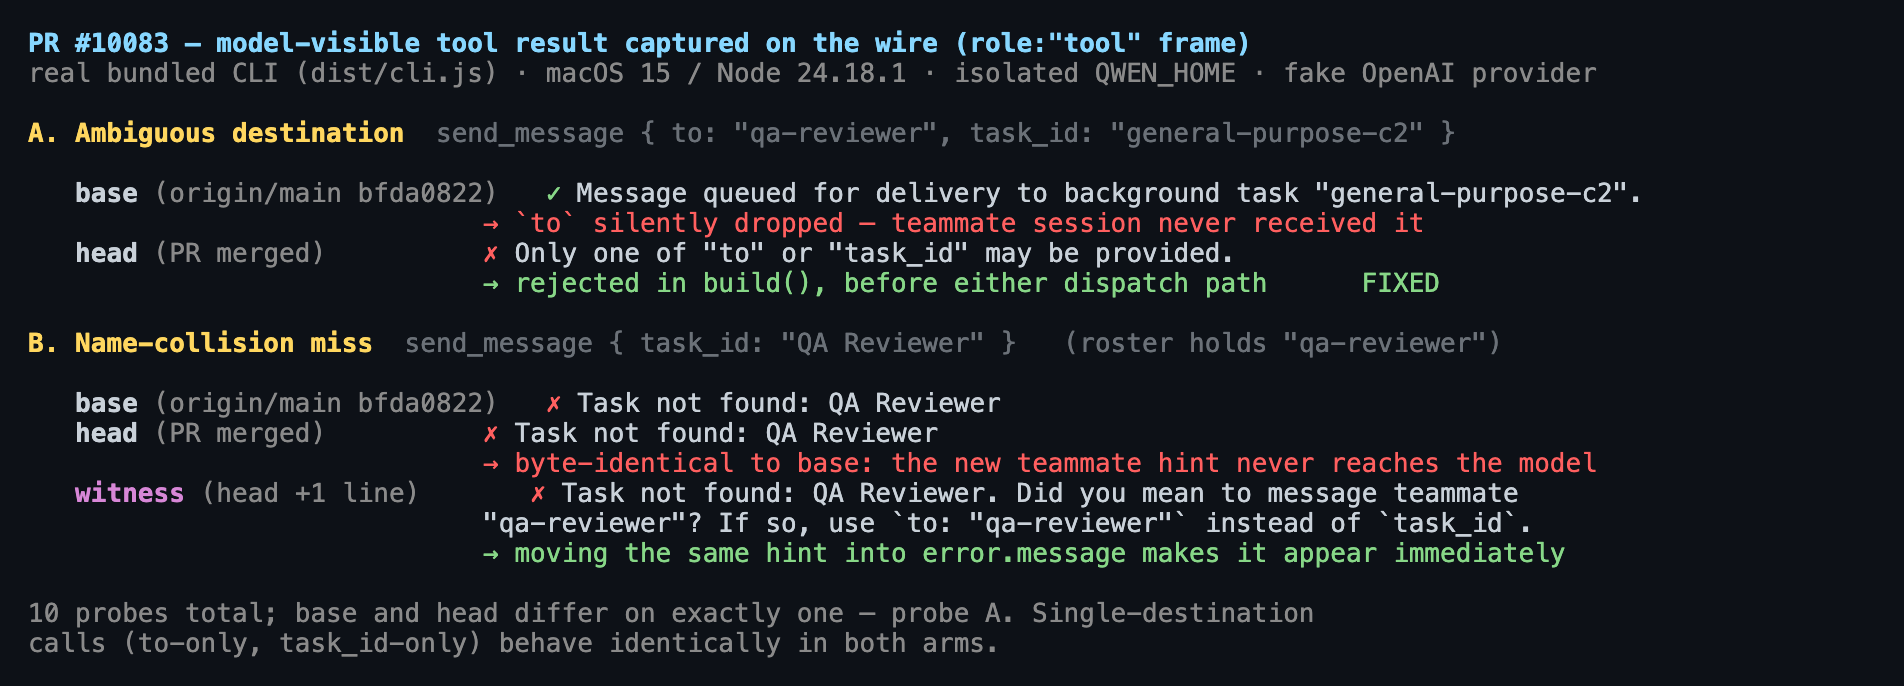
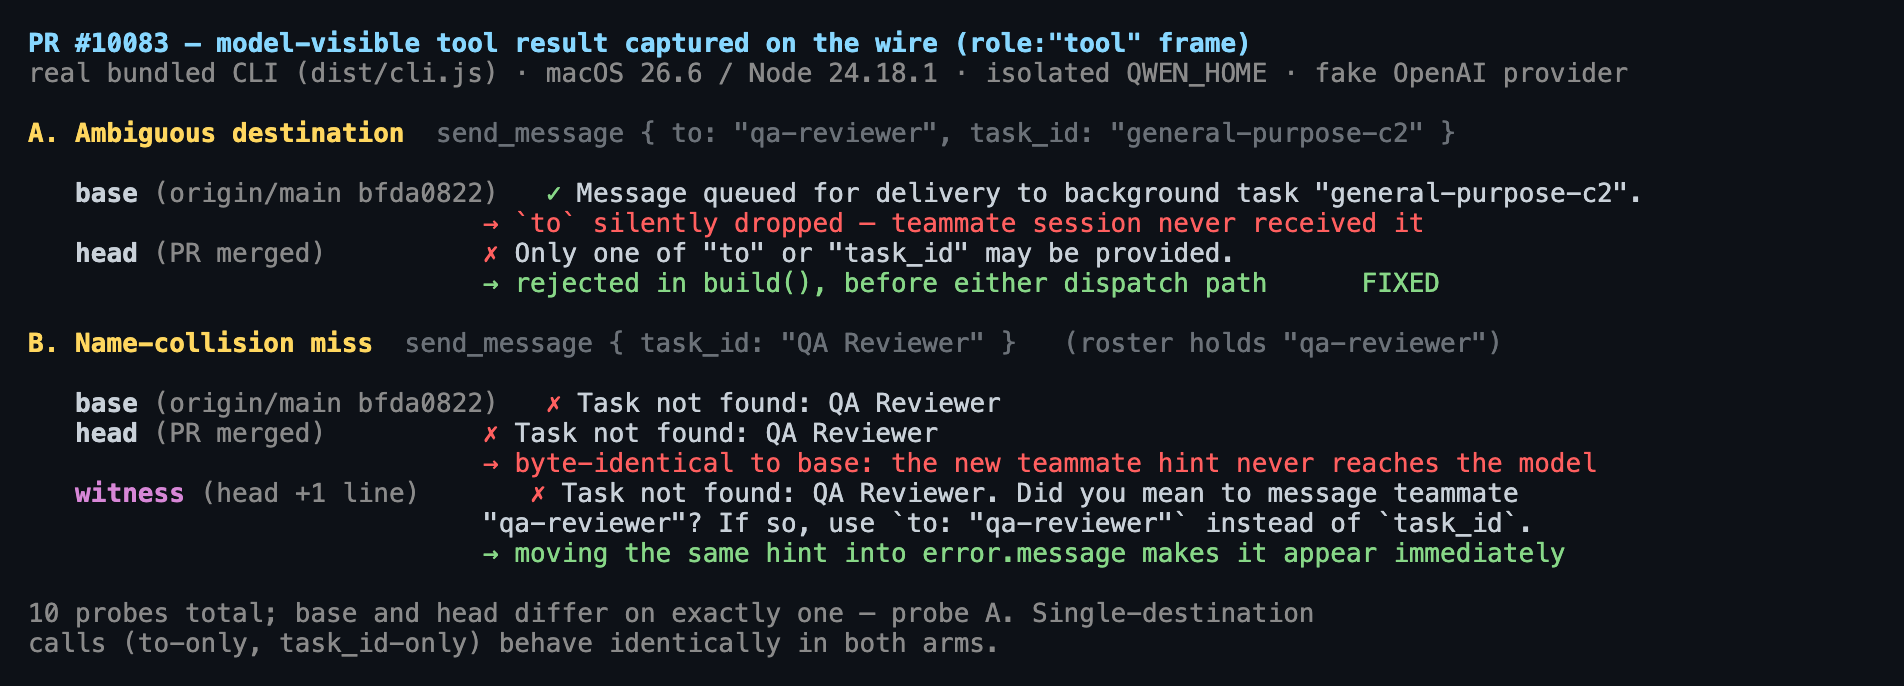
evidence: correct host OS version

Changed region(s): [[0.3409, 0.0918, 0.8676, 0.1224]]

diff --git a/README.md b/README.md
@@ -3,7 +3,7 @@
 `fix(core): disambiguate send_message destinations` (fixes #10073)
 
 - Tree under test: `origin/main` **bfda0822** + PR head **99e47d53**, merged locally (clean, `ort`; effective diff 97+/4-).
-- Host: macOS 15.6 (arm64), Node v24.18.1, npm 11.16.0 — the platform the PR reports as untested.
+- Host: macOS 26.6.2 (arm64), Node v24.18.1, npm 11.16.0 — the platform the PR reports as untested.
 - Everything below runs through the **bundled CLI** (`npm run build && npm run bundle` → `dist/cli.js`),
   an isolated `QWEN_HOME`, `QWEN_CODE_ENABLE_AGENT_TEAM=1`, and a scripted fake OpenAI provider.
 
